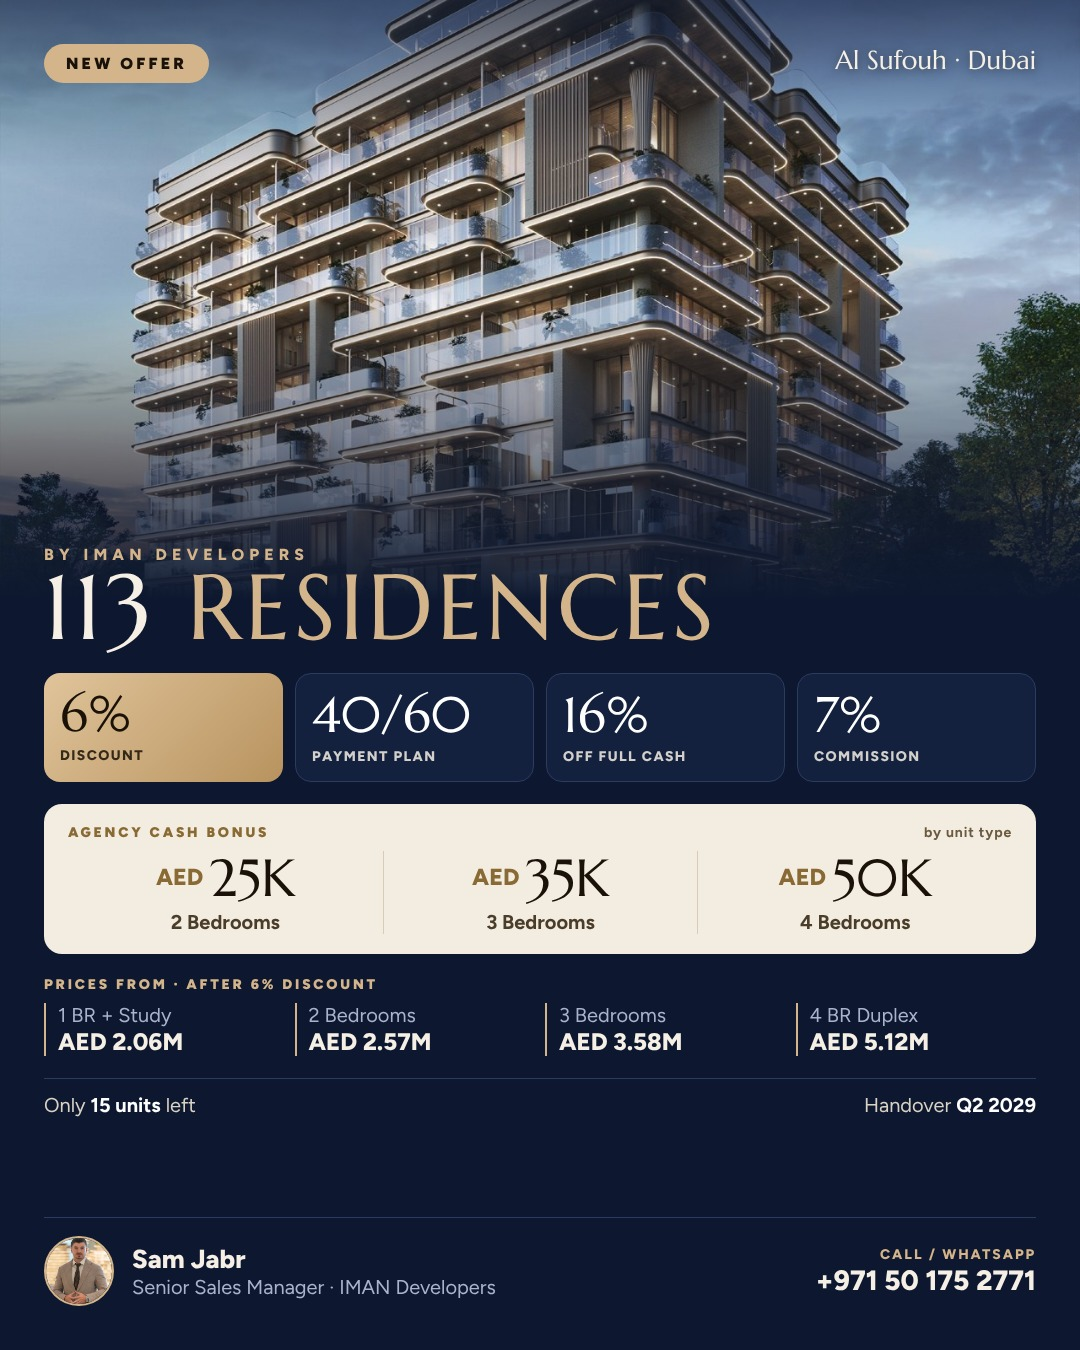
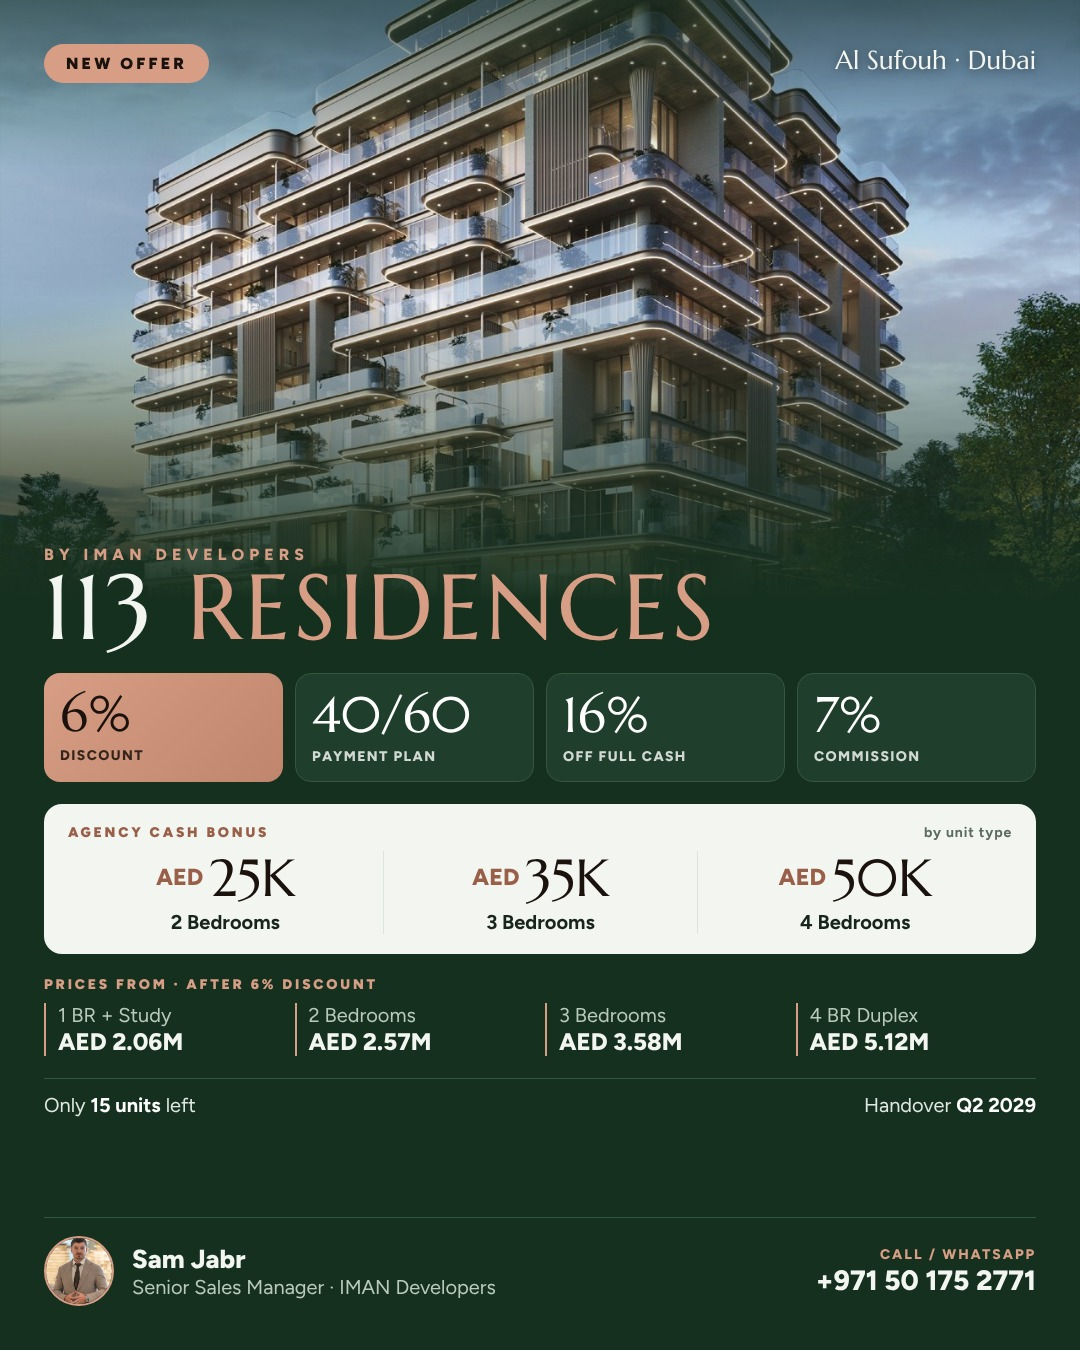
113 offer images in IMAN green and copper
Claude-Session: https://claude.ai/code/session_01SFSnpVLL6MiWnPoLJ6MSYq

diff --git a/marketing/tools/offer113.py b/marketing/tools/offer113.py
@@ -12,39 +12,39 @@ css = f"""
 @font-face{{font-family:Marcellus;src:url(file://{T}/marcellus.woff2)}}
 @font-face{{font-family:Figtree;src:url(file://{T}/figtree.woff2);font-weight:300 900}}
 *{{box-sizing:border-box;margin:0}}
-body{{width:var(--w);height:var(--h);background:#0d1830;color:#f5efe5;font-family:Figtree,sans-serif;overflow:hidden;display:flex;flex-direction:column}}
+body{{width:var(--w);height:var(--h);background:#16301f;color:#f2f5f0;font-family:Figtree,sans-serif;overflow:hidden;display:flex;flex-direction:column}}
 .hero{{flex:none;height:var(--img);position:relative;overflow:hidden}}
 .hero img{{position:absolute;inset:0;width:100%;height:100%;object-fit:cover;object-position:50% 40%}}
-.hero:after{{content:"";position:absolute;inset:0;background:linear-gradient(to bottom,rgba(13,24,48,.6) 0%,rgba(13,24,48,0) 28%,rgba(13,24,48,0) 50%,#0d1830 100%)}}
-.pill{{position:absolute;z-index:1;left:var(--pad);top:var(--pad);display:flex;align-items:center;gap:12px;background:#d4b48a;color:#1a1208;border-radius:99px;padding:10px 22px;font-weight:900;letter-spacing:.2em;font-size:var(--sm)}}
+.hero:after{{content:"";position:absolute;inset:0;background:linear-gradient(to bottom,rgba(22,48,31,.6) 0%,rgba(22,48,31,0) 28%,rgba(22,48,31,0) 50%,#16301f 100%)}}
+.pill{{position:absolute;z-index:1;left:var(--pad);top:var(--pad);display:flex;align-items:center;gap:12px;background:#d79e85;color:#1b120d;border-radius:99px;padding:10px 22px;font-weight:900;letter-spacing:.2em;font-size:var(--sm)}}
 .loc{{position:absolute;z-index:1;right:var(--pad);top:var(--pad);font-family:Marcellus,serif;font-size:var(--md);text-shadow:0 2px 10px rgba(0,0,0,.5)}}
 .panel{{flex:1;display:flex;flex-direction:column;padding:0 var(--pad) var(--pad);gap:var(--gap);margin-top:calc(var(--t1) * -0.6);position:relative}}
-.title small{{display:block;color:#d4b48a;font-weight:800;letter-spacing:.32em;font-size:var(--sm)}}
+.title small{{display:block;color:#d79e85;font-weight:800;letter-spacing:.32em;font-size:var(--sm)}}
 .title h1{{font-family:Marcellus,serif;font-weight:400;font-size:var(--t1);line-height:.95;letter-spacing:.04em}}
-.title h1 span{{color:#d4b48a}}
+.title h1 span{{color:#d79e85}}
 .stats{{display:grid;grid-template-columns:repeat(4,1fr);gap:12px}}
-.s{{border:1px solid #2c3b60;border-radius:16px;padding:16px 16px;background:#13213f}}
+.s{{border:1px solid #34573f;border-radius:16px;padding:16px 16px;background:#1f3e2b}}
 .s b{{display:block;font-family:Marcellus,serif;font-weight:400;font-size:var(--sv);line-height:1;color:#fff}}
 .s span{{display:block;margin-top:8px;font-size:var(--sl);font-weight:800;letter-spacing:.1em;text-transform:uppercase;opacity:.85}}
-.s.gold{{background:linear-gradient(135deg,#e0c49b,#b8935f);border:0;color:#1a1208}} .s.gold b{{color:#1a1208}}
-.bonus{{background:#f3ece0;color:#1a1208;border-radius:18px;padding:var(--bp)}}
-.bonus .k{{font-size:var(--sl);font-weight:900;letter-spacing:.2em;color:#8a6a34;display:flex;justify-content:space-between;gap:10px}}
-.bonus .k em{{font-style:normal;letter-spacing:.06em;color:#6b5a40;font-weight:700}}
+.s.gold{{background:linear-gradient(135deg,#d79e85,#c0866d);border:0;color:#1b120d}} .s.gold b{{color:#1b120d}}
+.bonus{{background:#f2f5f0;color:#1b120d;border-radius:18px;padding:var(--bp)}}
+.bonus .k{{font-size:var(--sl);font-weight:900;letter-spacing:.2em;color:#9a5f48;display:flex;justify-content:space-between;gap:10px}}
+.bonus .k em{{font-style:normal;letter-spacing:.06em;color:#5b6b60;font-weight:700}}
 .bonus .row{{display:grid;grid-template-columns:repeat(3,1fr);margin-top:10px}}
-.bonus .row div{{text-align:center;border-left:1px solid #d8ccb6}} .bonus .row div:first-child{{border:0}}
+.bonus .row div{{text-align:center;border-left:1px solid #dde4dc}} .bonus .row div:first-child{{border:0}}
 .bonus .row b{{display:block;font-family:Marcellus,serif;font-weight:400;font-size:var(--bv);line-height:1.05}}
-.bonus .row b small{{font-size:.45em;color:#8a6a34;margin-right:6px;vertical-align:.5em;font-family:Figtree;font-weight:800}}
-.bonus .row span{{display:block;font-size:var(--md2);font-weight:700;color:#4a3d2a;margin-top:4px}}
-.from .k{{font-size:var(--sl);font-weight:900;letter-spacing:.2em;color:#d4b48a;margin-bottom:10px}}
+.bonus .row b small{{font-size:.45em;color:#9a5f48;margin-right:6px;vertical-align:.5em;font-family:Figtree;font-weight:800}}
+.bonus .row span{{display:block;font-size:var(--md2);font-weight:700;color:#17251c;margin-top:4px}}
+.from .k{{font-size:var(--sl);font-weight:900;letter-spacing:.2em;color:#d79e85;margin-bottom:10px}}
 .fr{{display:grid;grid-template-columns:repeat(4,1fr);gap:10px}}
-.fr div{{border-left:2px solid #d4b48a;padding-left:12px}} .fr span{{display:block;font-size:var(--md2);color:#a9b3cc}} .fr b{{font-size:var(--fb);font-weight:800}}
-.line{{display:flex;justify-content:space-between;gap:16px;font-size:var(--md2);color:#d9d2c4;border-top:1px solid #2c3b60;padding-top:var(--lp)}}
+.fr div{{border-left:2px solid #d79e85;padding-left:12px}} .fr span{{display:block;font-size:var(--md2);color:#b9c9bd}} .fr b{{font-size:var(--fb);font-weight:800}}
+.line{{display:flex;justify-content:space-between;gap:16px;font-size:var(--md2);color:#dfe7e0;border-top:1px solid #34573f;padding-top:var(--lp)}}
 .line b{{color:#fff}}
-.agent{{margin-top:auto;display:flex;align-items:center;gap:18px;border-top:1px solid #2c3b60;padding-top:var(--ap)}}
-.agent img{{width:var(--av);height:var(--av);border-radius:50%;object-fit:cover;object-position:50% 15%;border:2px solid #d4b48a}}
-.agent .n{{font-weight:800;font-size:var(--an)}} .agent .r{{color:#a9b3cc;font-size:var(--md2)}}
+.agent{{margin-top:auto;display:flex;align-items:center;gap:18px;border-top:1px solid #34573f;padding-top:var(--ap)}}
+.agent img{{width:var(--av);height:var(--av);border-radius:50%;object-fit:cover;object-position:50% 15%;border:2px solid #d79e85}}
+.agent .n{{font-weight:800;font-size:var(--an)}} .agent .r{{color:#b9c9bd;font-size:var(--md2)}}
 .agent .p{{margin-left:auto;text-align:right;white-space:nowrap}} .agent .p b{{font-size:var(--ph);font-weight:800}}
-.agent .p small{{display:block;color:#d4b48a;font-weight:800;letter-spacing:.14em;font-size:var(--sl)}}
+.agent .p small{{display:block;color:#d79e85;font-weight:800;letter-spacing:.14em;font-size:var(--sl)}}
 """
 body = f"""<div class=hero><img src="file://{IMG}" alt=""><div class=pill>NEW OFFER</div><div class=loc>Al Sufouh · Dubai</div></div>
 <div class=panel>
